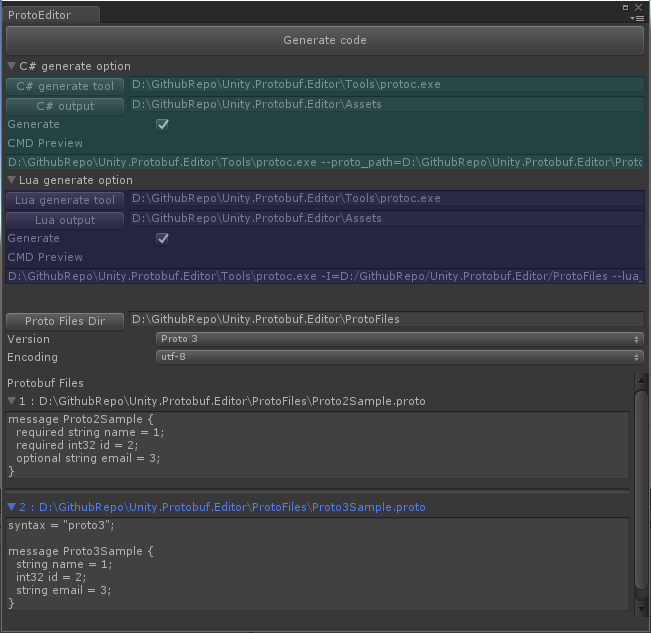
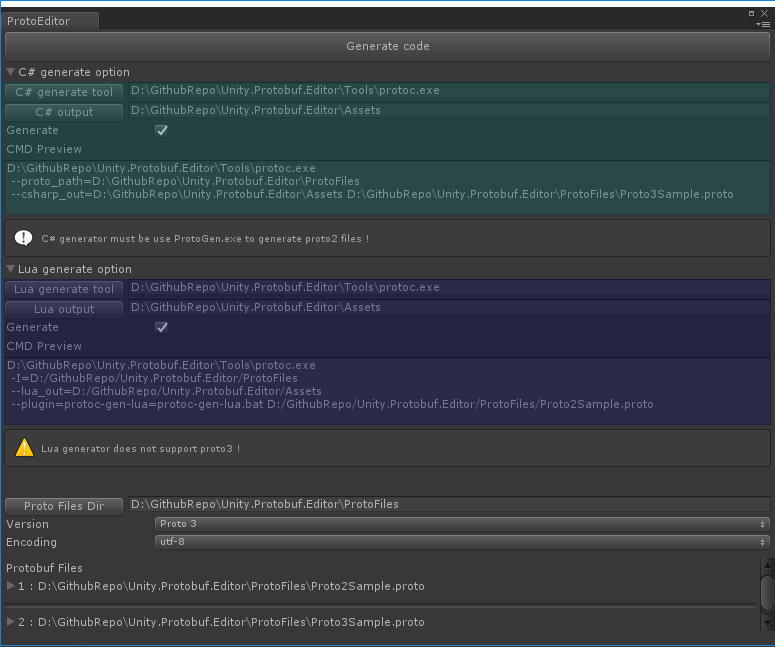
Add prompt and CMD preview

Changed region(s): [[0.0, 0.0, 1.0, 0.9905], [0.9831, 0.9305, 1.0, 0.9905]]

diff --git a/Assets/Google.ProtoBuf/Editor/ProtoEditor.cs b/Assets/Google.ProtoBuf/Editor/ProtoEditor.cs
@@ -58,7 +58,7 @@ public class ProtoEditor : EditorWindow
         csharpCmd += (setting.version == ProtoVersion.Proto2 ? " -output_directory=" : " --csharp_out=" + setting.CsharpOutput);
         foreach (var file in protoFiles) {
             var containsSynx = File.ReadAllText(file).Contains("proto3");
-            if (setting.version == ProtoVersion.Proto2 && containsSynx || setting.version == ProtoVersion.Proto3 && !containsSynx)  continue;
+            if (setting.version == ProtoVersion.Proto2 && containsSynx || setting.version == ProtoVersion.Proto3 && !containsSynx) continue;
             csharpCmd += " " + file + "\n";
         }
 
@@ -127,6 +127,7 @@ public class ProtoEditor : EditorWindow
             }
             EditorGUILayout.EndVertical();
             EditorGUI.DrawRect(csharpRect, Color.cyan / 3f);
+            EditorGUILayout.HelpBox("C# generator must be use ProtoGen.exe to generate proto2 files !", MessageType.Info, true);
         }
 
         luaFold = EditorGUILayout.Foldout(luaFold, "Lua generate option");
@@ -156,6 +157,8 @@ public class ProtoEditor : EditorWindow
             }
             EditorGUILayout.EndVertical();
             EditorGUI.DrawRect(luaRect, Color.blue / 3f);
+            if (setting.version == ProtoVersion.Proto3 && setting.Lua)
+                EditorGUILayout.HelpBox("Lua generator does not support proto3 !", MessageType.Warning, true);
         }
 
         GUILayout.Space(25f);
